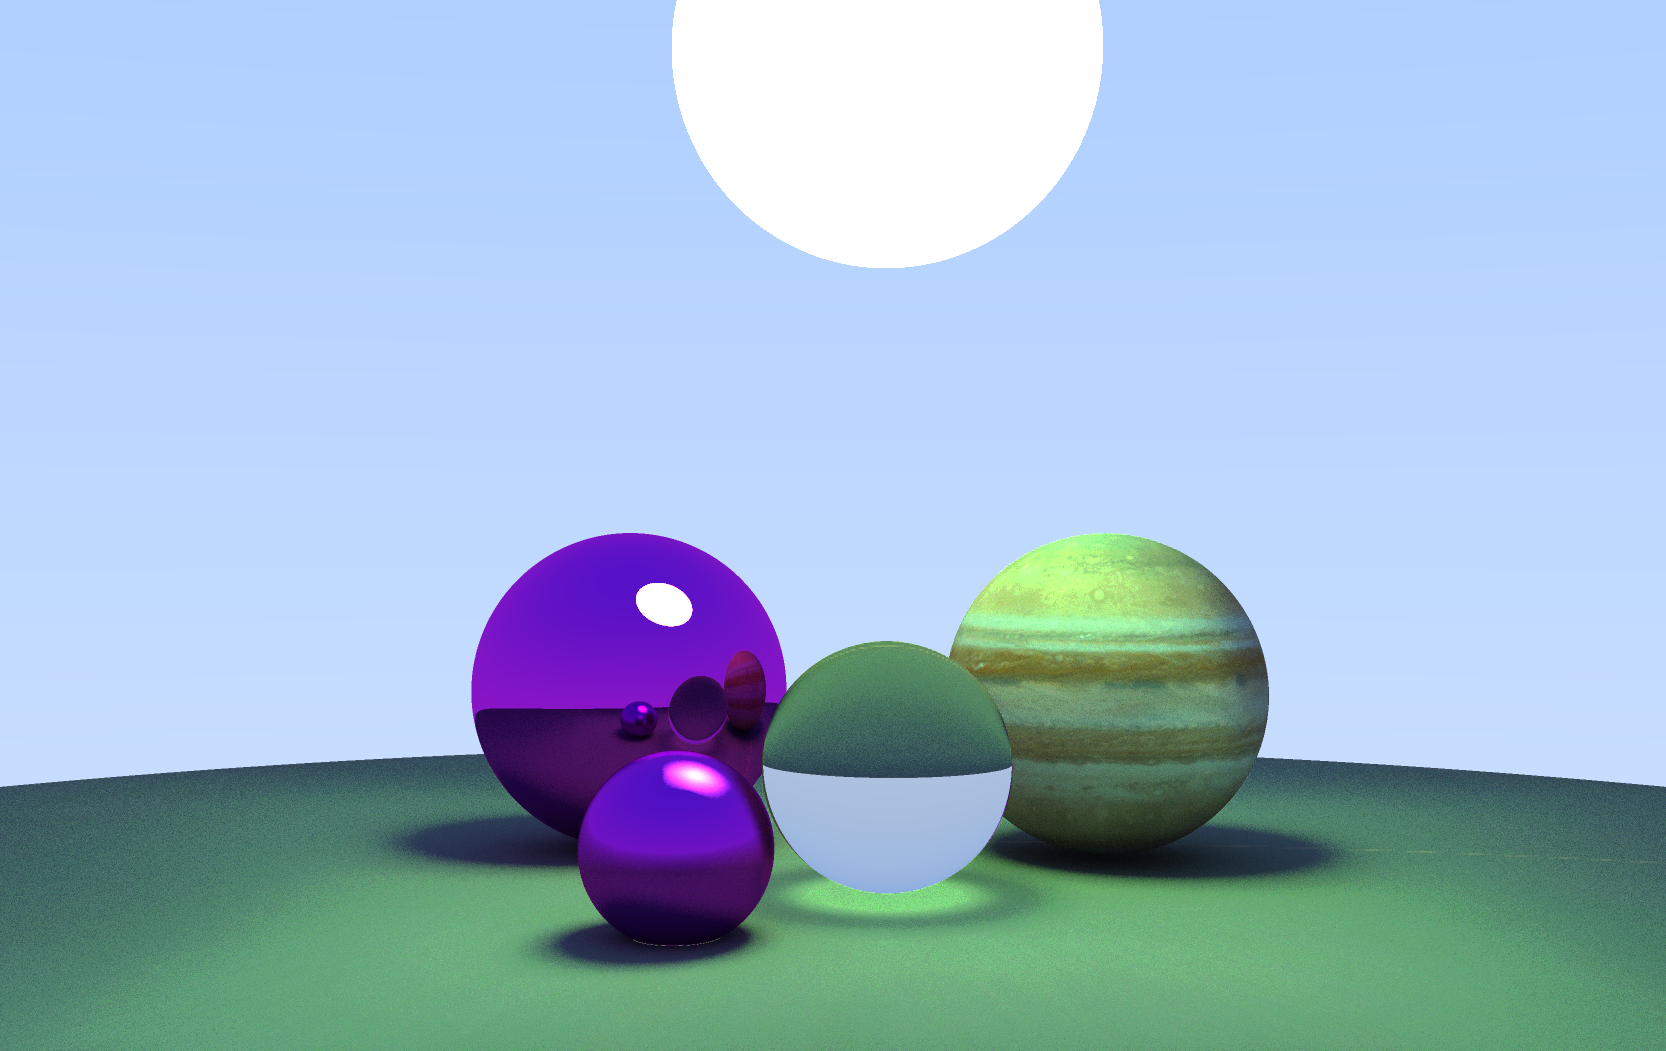
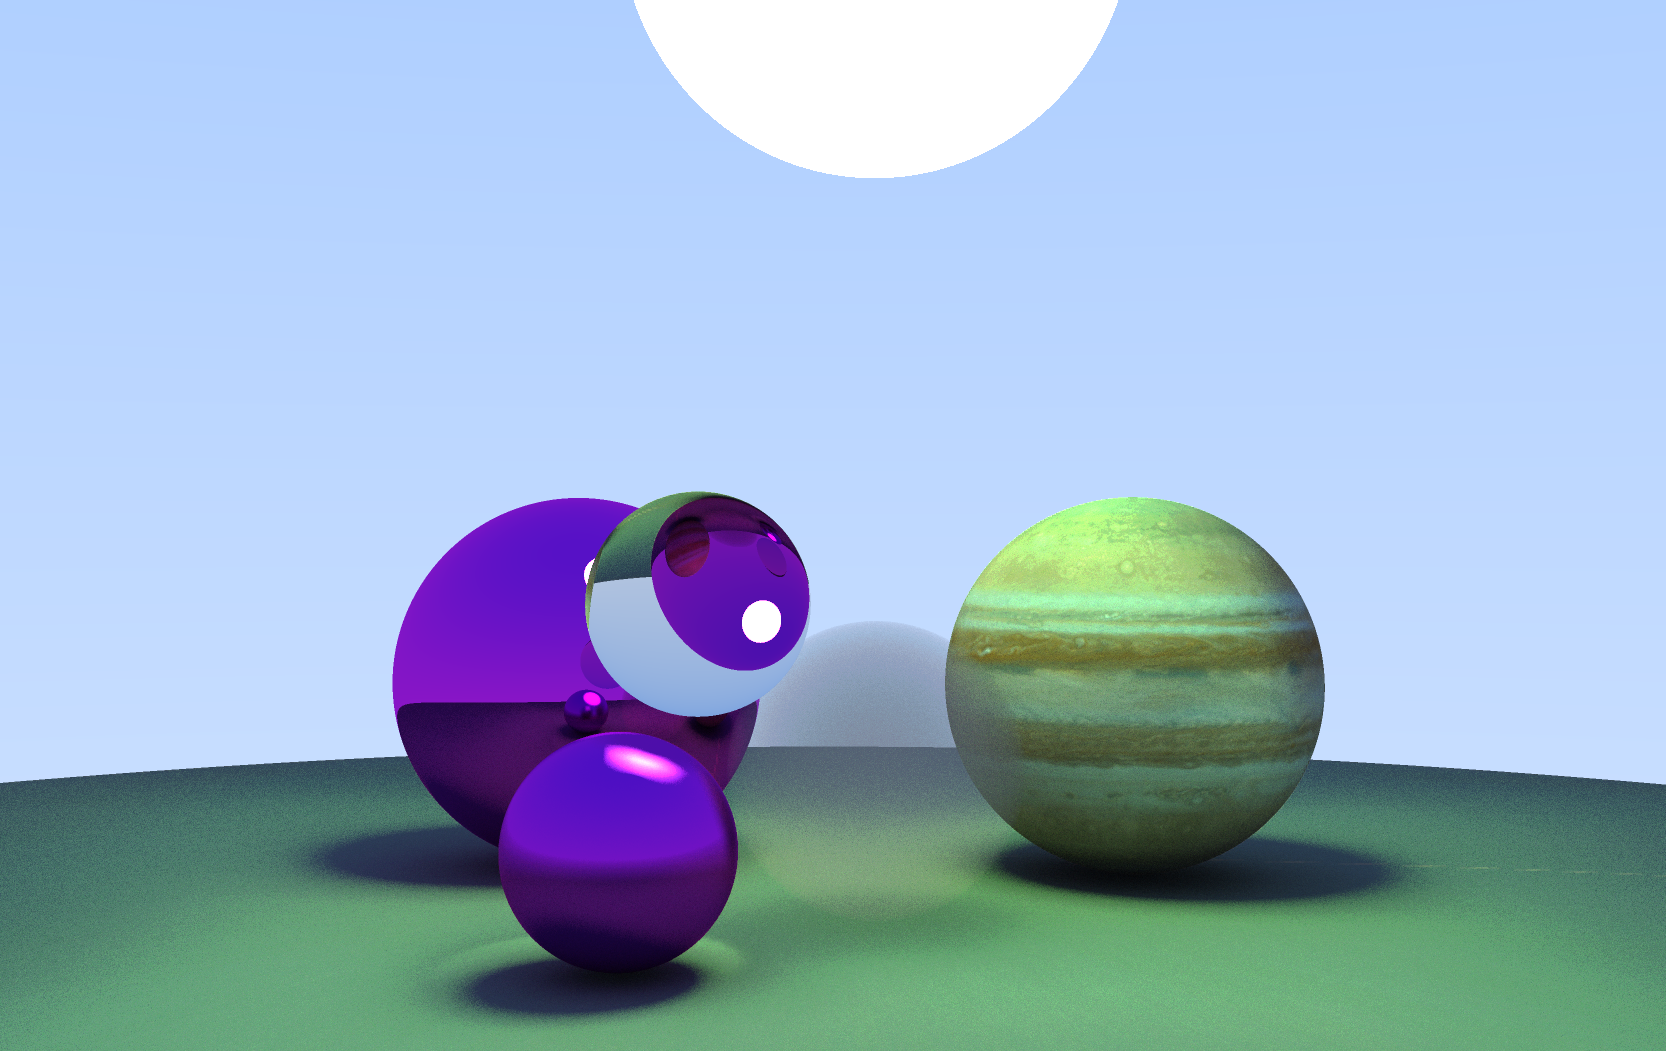
Add a constant density medium

diff --git a/src/RayTracingOneWeek/main.cpp b/src/RayTracingOneWeek/main.cpp
@@ -18,10 +18,11 @@ Z::Camera camera{{12, 1.75, 0}, {0, 0, 0}, 90, 800.0f / 600.0f, 0.1f, 100.0f, 1}
 glm::vec2 g_viewportSize{800, 600};
 World world{
 		{Sphere{{-.5, 1,  -1.7, 1},{.8,  .5, .3,   1}},
-		Sphere{{-.8, 1,  1.3, 1},{.7,  .1, .8,  1},{2,   0,  0,   0}},
-		Sphere{{.8, .7, -.3, .7},{.9, .9, .9,  1},{3,  70, 0,   0}},
-		Sphere{{.8, 4.7, -.3, 1.2},{8., 13., 5.,  1},{5,  0, 0,   0}},
-		Sphere{{1.8, .4, .8, .5},{.7, .1, .9,  1},{4,  70, 20,   0}},
+		Sphere{{-.8, 1,  1.3, 1},{.7,  .1, .8,  1},{MIRROR,   0,  0,   0}},
+		Sphere{{.8, .7, -.3, .7},{.9, .9, .9,  1},{FOG,  50, 0,   0}},
+		Sphere{{1.3, 1.5, .5, .5},{.9, .9, .9,  1},{GLASS,  50, 0,   0}},
+		Sphere{{.8, 4.7, -.3, 1.2},{8., 13., 5.,  1},{LIGHT,  0, 0,   0}},
+		Sphere{{1.8, .48, .8, .5},{.7, .1, .9,  1},{META,  70, 20,   0}},
 		Sphere{{-1, -100, 0,  100},{.9, .9,.9, 1}}},
 		{Face{{1,  -1,     1,  0},{1,  -1,     -1, 0},{-1, -1,     -1, 0},{-1, -1,     1,  0},{-1, -1.005, -1, 0},{1,  -.995,  1,  0},{0,  1,      0,  0},{.8, .5,     .3, 1}},
 		  Face{{1,  1.5,   1,  0},{1,  1.5,   -1, 0},{-1, 1.5,   -1, 0},{-1, 1.5,   1,  0},{-1, 1.495, -1, 0},{1,  1.505, 1,  0},{0,  1,     0,  0},{.9, .7,    .1, 1}}}

diff --git a/src/RayTracingOneWeek/Objects.h b/src/RayTracingOneWeek/Objects.h
@@ -6,23 +6,29 @@
 #define OPENGL_RENDER_OBJECTS_H
 
 #include "glm/glm/glm.hpp"
+#define LAMBERT 1
+#define MIRROR 2
+#define GLASS 3
+#define META 4
+#define LIGHT 5
+#define FOG 6
 
 struct Sphere {
 	glm::vec4 center;
 	glm::vec4 color{1,1,1,1.f};
-	glm::ivec4 info{1,0,0,1};
+	glm::ivec4 info{LAMBERT,0,0,1};
 };
 struct Face {
 	glm::vec4 v0, v1, v2,v3;
 	glm::vec4 minV, maxV;
 	glm::vec4 normal;
 	glm::vec4 color{1,1,1,1.f};
-	glm::ivec4 info{1,0,0,0};
+	glm::ivec4 info{LAMBERT,0,0,0};
 };
 struct World{
-	Sphere spheres[6];
+	Sphere spheres[7];
 	Face faces[2];
-	glm::vec4 count{6,2,0,0};
+	glm::vec4 count{7,2,0,0};
 };
 
 
